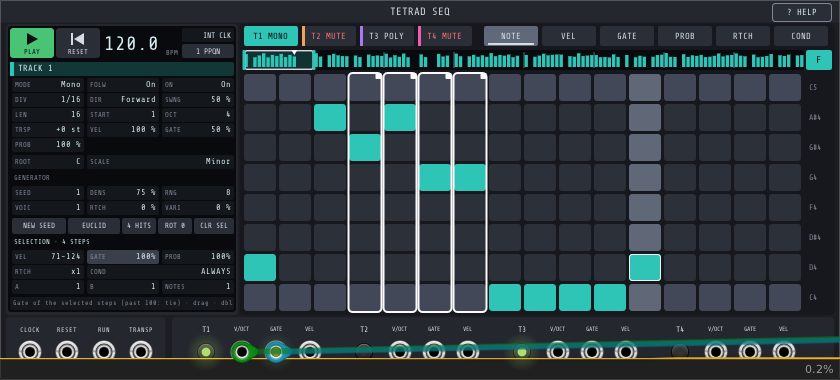
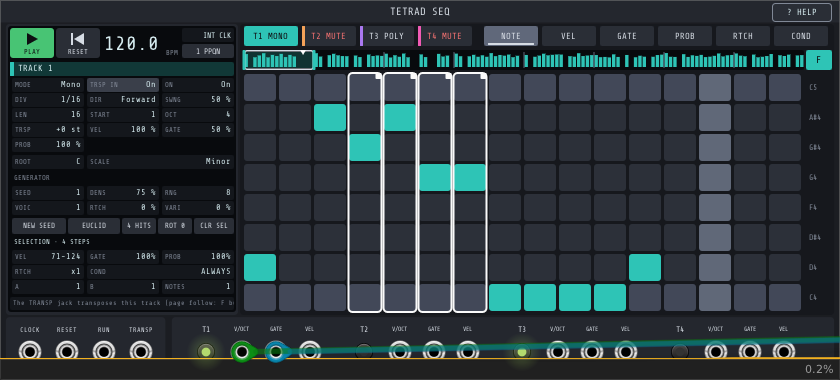
Rename the inspector field FOLW to TRSP IN
FOLW sets whether the TRANSP jack transposes the track; it was easy to
mistake for the page follow (F button).

diff --git a/src/Inspector.cpp b/src/Inspector.cpp
@@ -24,7 +24,7 @@ struct FieldDef {
 
 const FieldDef kFields[] = {
     {Ref::Track, kTrackMode, "MODE", kTrackY, 0, 1, "Mono: one note per step · Poly: up to 7 (also drum rows on the Pipe)"},
-    {Ref::Track, kTrackFollow, "FOLW", kTrackY, 1, 1, "Follow the TRANSP input"},
+    {Ref::Track, kTrackFollow, "TRSP IN", kTrackY, 1, 1, "The TRANSP jack transposes this track"},
     {Ref::Track, kTrackEnabled, "ON", kTrackY, 2, 1, "Mute: the track keeps running silently (key M)"},
     {Ref::Track, kTrackDivision, "DIV", kTrackY + kRowH, 0, 1, "Step length"},
     {Ref::Track, kTrackDirection, "DIR", kTrackY + kRowH, 1, 1, "Forward, backward, ping-pong, random, drunk"},

diff --git a/core/params.cpp b/core/params.cpp
@@ -90,7 +90,7 @@ struct Table {
             at(kTrackDirection) = makeEnum("Direction", kDirections, 0);
             at(kTrackOctave) = makeInt("Octave", 0, 8, d.octave);
             at(kTrackTranspose) = makeInt("Transpose", -24, 24, 0, " st", true);
-            at(kTrackFollow) = makeEnum("Follow transpose", kOffOn, 1, ParamType::Bool);
+            at(kTrackFollow) = makeEnum("Transpose input", kOffOn, 1, ParamType::Bool);
             at(kTrackGate) = makeInt("Gate", 2, 200, d.gate, " %");
             at(kTrackSwing) = makeInt("Swing", 10, 90, 50, " %");
             at(kTrackVelocity) = makeInt("Velocity", 10, 200, 100, " %");

diff --git a/README.md b/README.md
@@ -110,7 +110,7 @@ In the step menu and the module menu, applied to the loop of the selected track:
 | CLOCK | external clock at the selected PPQN (1, 2, 4, 8, 12, 24, 48; default 1). Unpatched: internal clock at the inspector tempo |
 | RESET | rising edge: back to step 1 |
 | RUN | high: play, low: pause; unpatched: follows PLAY |
-| TRANSP | 1 V/oct, rounded to semitones, added to the tracks with FOLW on |
+| TRANSP | 1 V/oct, rounded to semitones, added to the tracks with TRSP IN on |
 | T1 to T4 | track on / off |
 | V/OCT, GATE, VEL | per track: 0 V = C4; 10 V gates; velocity 0 to 10 V. Polyphonic in Poly mode (up to 7 channels) |
 

diff --git a/CHANGELOG.md b/CHANGELOG.md
@@ -1,5 +1,10 @@
 # Changelog
 
+## 2.6.2
+
+- The inspector field FOLW is renamed TRSP IN: it sets whether the TRANSP jack transposes the
+  track, and was easy to mistake for the page follow (F button).
+
 ## 2.6.1
 
 - Large PLAY and RESET buttons with icons; PLAY is lit green while playing.
